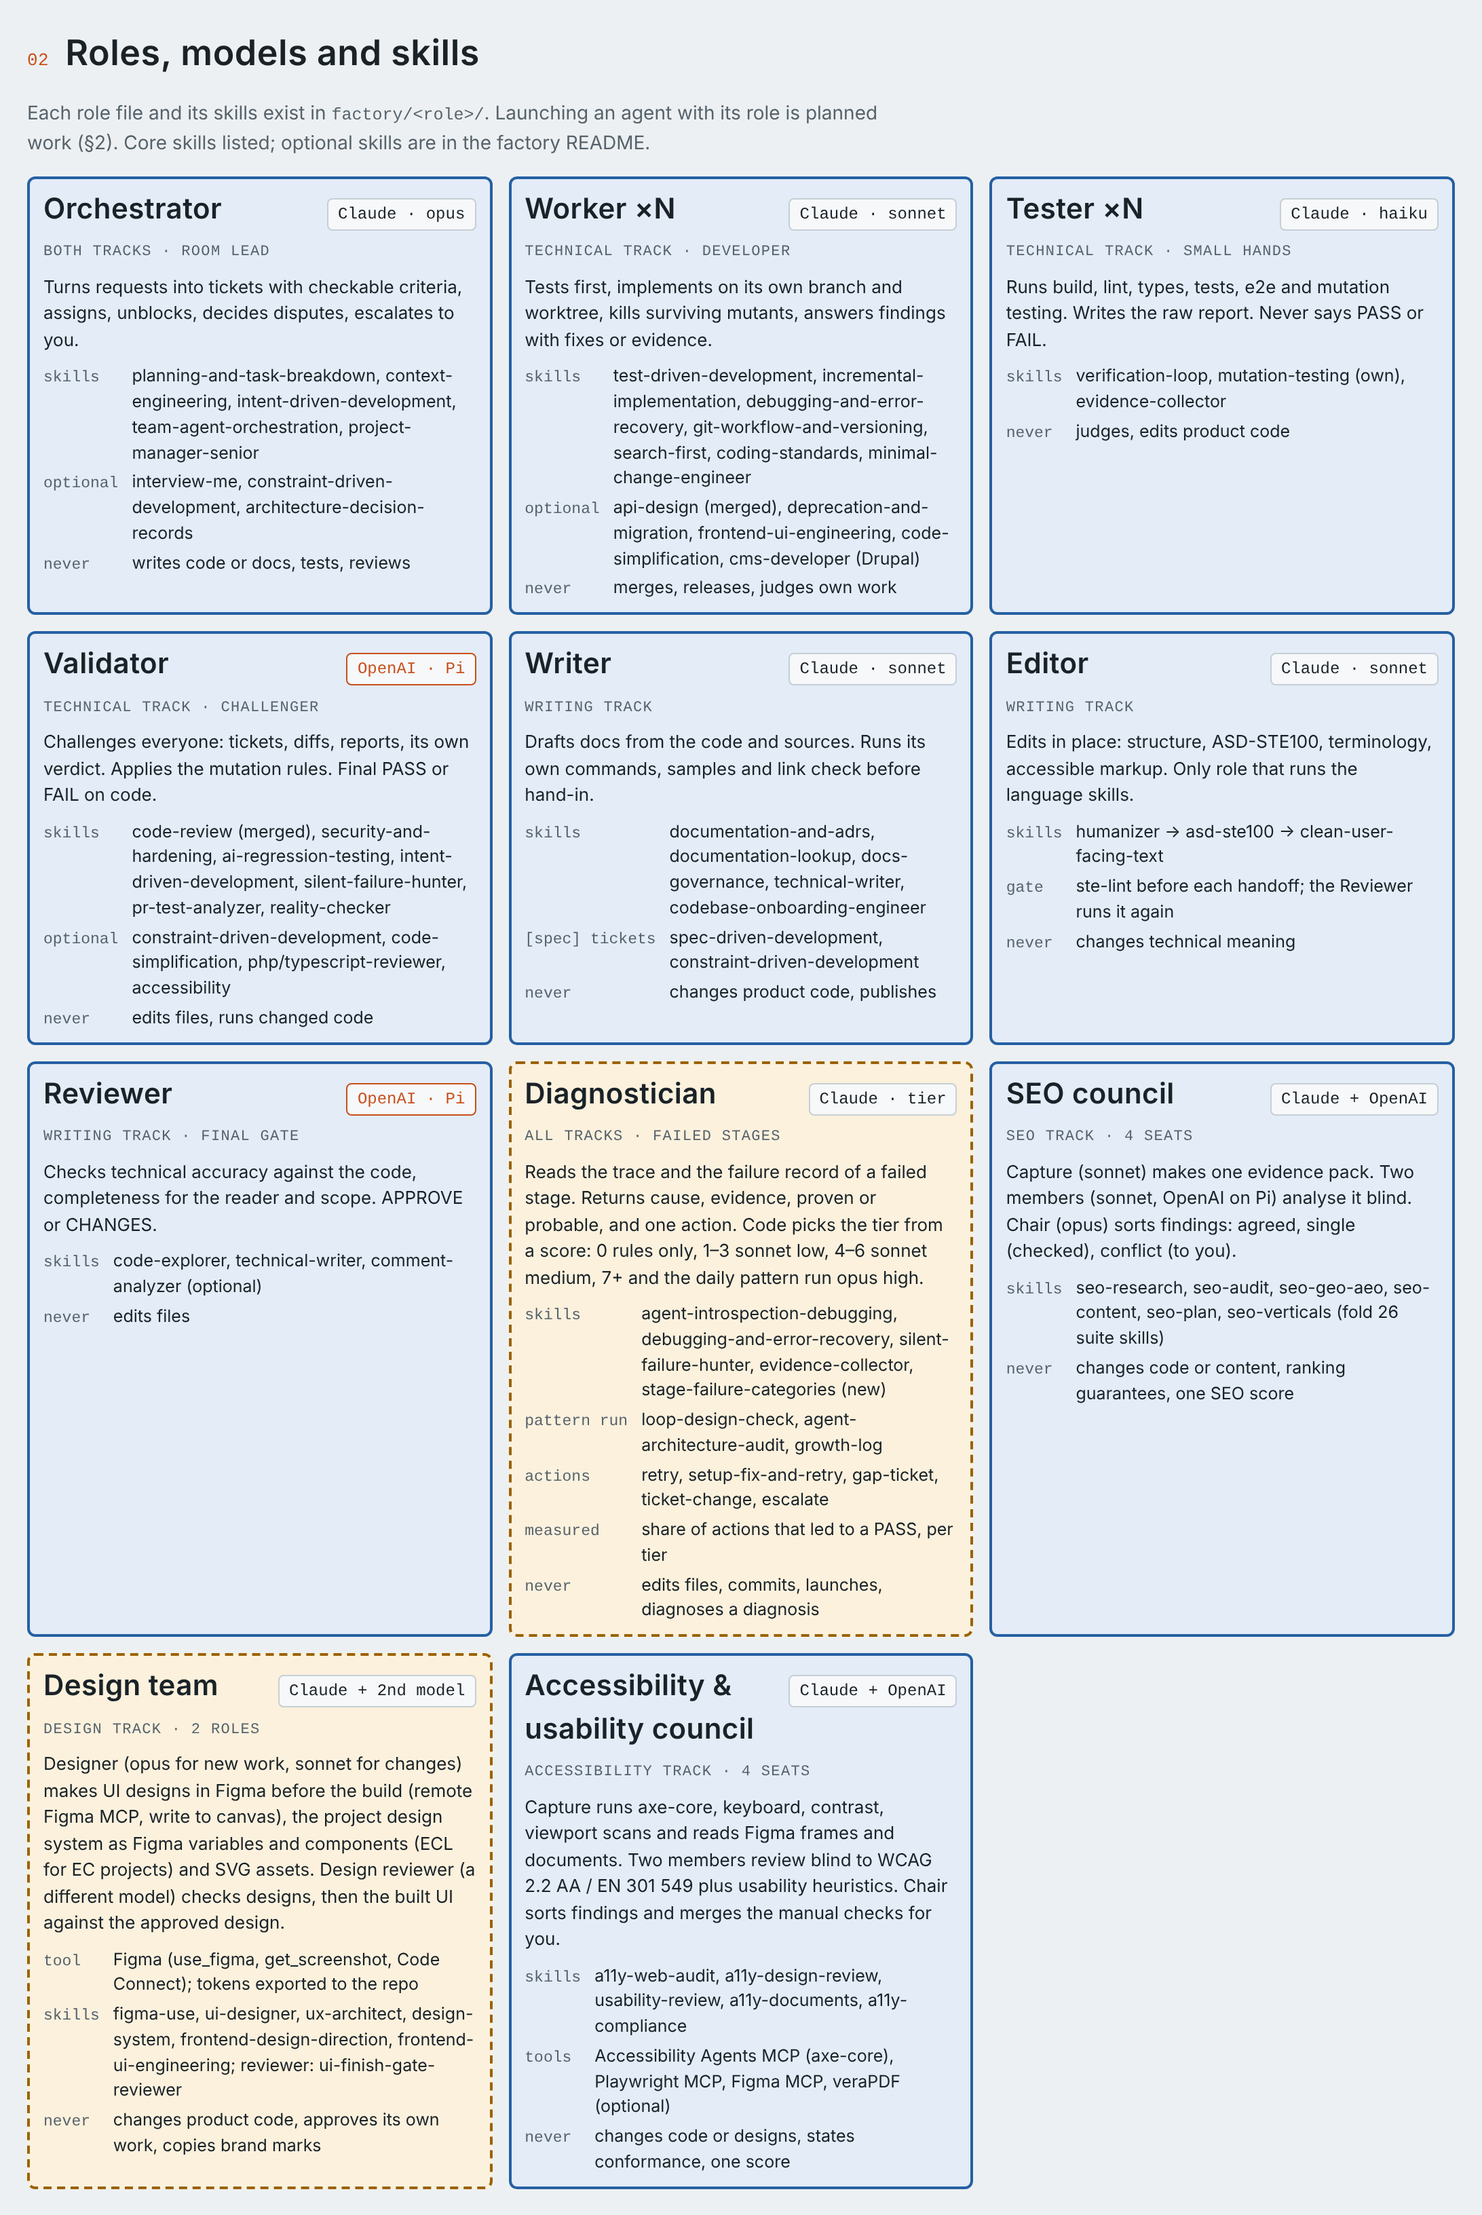
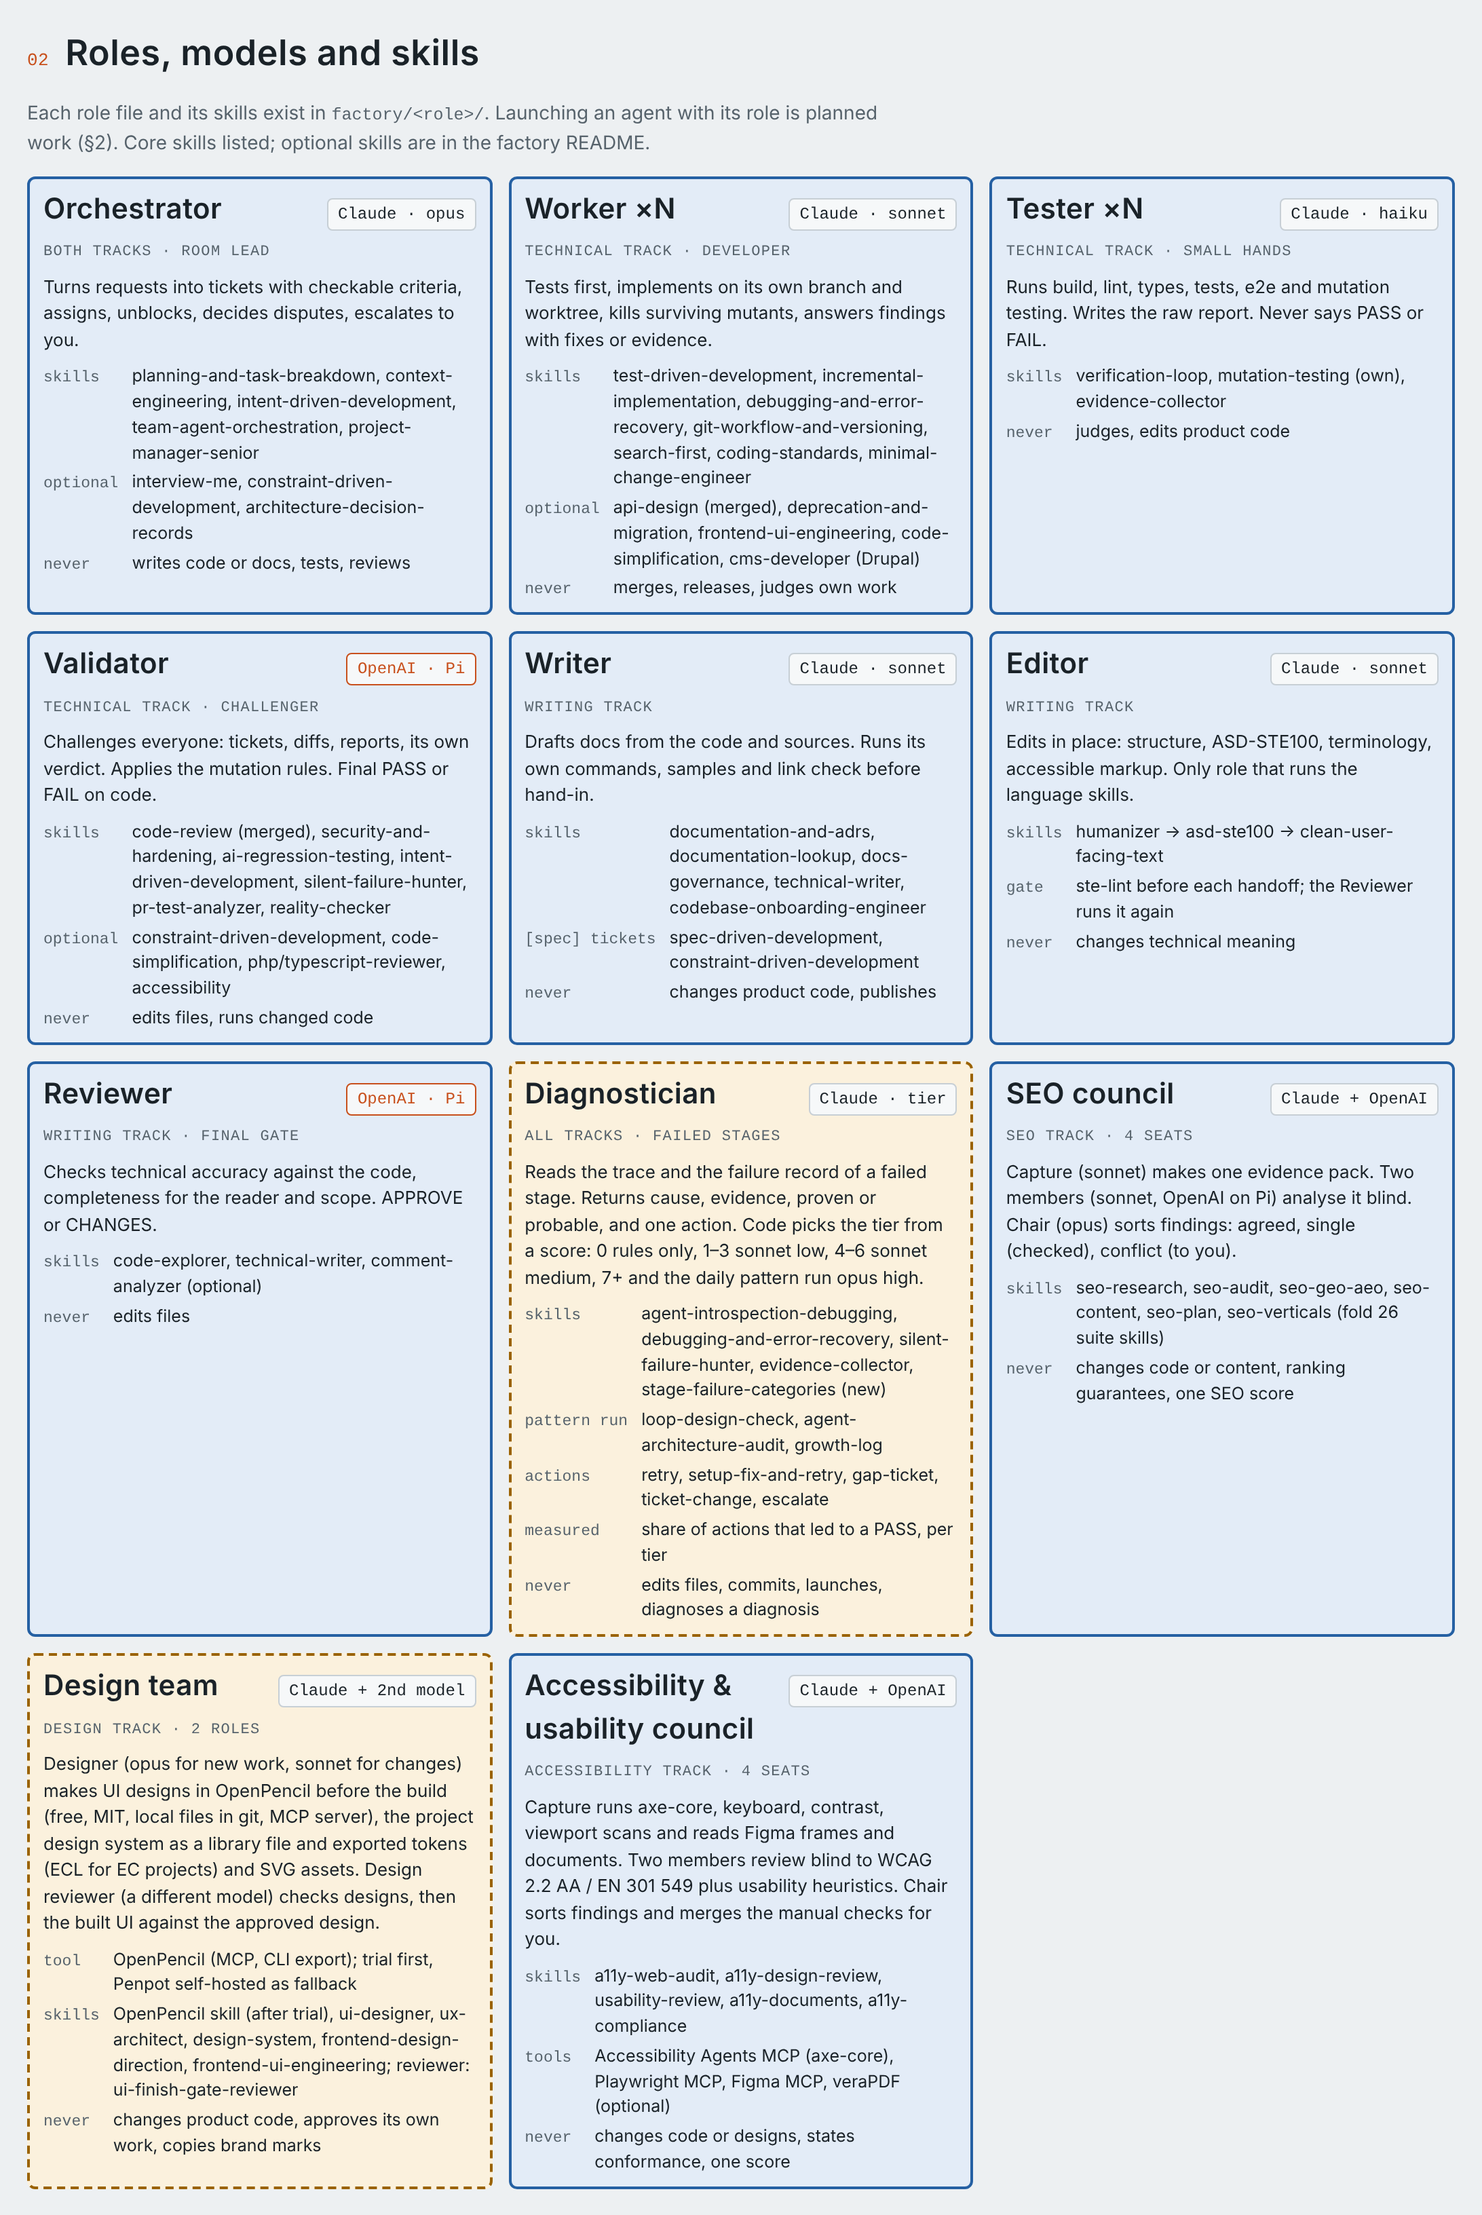
docs: Part 16 design team uses OpenPencil (trial first, Penpot fallback); map

Changed region(s): [[0.0311, 0.7812, 0.3114, 0.9688]]

diff --git a/docs/factory-map.html b/docs/factory-map.html
@@ -331,9 +331,9 @@ footer{color:var(--muted);font-size:12.5px;display:grid;gap:4px}
     <article class="n planned role">
       <div class="head"><h3>Design team</h3><span class="model">Claude + 2nd model</span></div>
       <span class="track">Design track · 2 roles</span>
-      <p class="job">Designer (opus for new work, sonnet for changes) makes UI designs in Figma before the build (remote Figma MCP, write to canvas), the project design system as Figma variables and components (ECL for EC projects) and SVG assets. Design reviewer (a different model) checks designs, then the built UI against the approved design.</p>
-      <dl><dt>tool</dt><dd>Figma (use_figma, get_screenshot, Code Connect); tokens exported to the repo</dd>
-      <dt>skills</dt><dd>figma-use, ui-designer, ux-architect, design-system, frontend-design-direction, frontend-ui-engineering; reviewer: ui-finish-gate-reviewer</dd>
+      <p class="job">Designer (opus for new work, sonnet for changes) makes UI designs in OpenPencil before the build (free, MIT, local files in git, MCP server), the project design system as a library file and exported tokens (ECL for EC projects) and SVG assets. Design reviewer (a different model) checks designs, then the built UI against the approved design.</p>
+      <dl><dt>tool</dt><dd>OpenPencil (MCP, CLI export); trial first, Penpot self-hosted as fallback</dd>
+      <dt>skills</dt><dd>OpenPencil skill (after trial), ui-designer, ux-architect, design-system, frontend-design-direction, frontend-ui-engineering; reviewer: ui-finish-gate-reviewer</dd>
       <dt>never</dt><dd>changes product code, approves its own work, copies brand marks</dd></dl>
     </article>
 
@@ -419,7 +419,7 @@ footer{color:var(--muted);font-size:12.5px;display:grid;gap:4px}
     <h3>Design track</h3>
     <div class="flow">
       <div class="n planned"><span class="t">[design] ticket</span><span class="d">request with a UI change; code tickets wait for it</span></div><span class="arrow">→</span>
-      <div class="n planned"><span class="t">Designer</span><span class="d">screens in Figma on the library, screenshots and tokens to the repo, assets</span></div><span class="arrow">→</span>
+      <div class="n planned"><span class="t">Designer</span><span class="d">screens in OpenPencil on the library, .pen files, screenshots and tokens in the repo</span></div><span class="arrow">→</span>
       <div class="n planned"><span class="t">Design reviewer</span><span class="d">PASS or CHANGES; 2 CHANGES: arbiter</span></div><span class="arrow">→</span>
       <div class="n planned"><span class="t">Plan + design</span><span class="d">one Approve at the start</span><span class="gate">you approve the plan and the design</span></div><span class="arrow">→</span>
       <div class="n planned"><span class="t">Design review of built UI</span><span class="d">after the Tester on UI tickets: layout, states, tokens</span><span class="ref">§16</span></div>
@@ -492,7 +492,7 @@ footer{color:var(--muted);font-size:12.5px;display:grid;gap:4px}
     <div class="n built"><span class="step">4a</span><span class="t">Agent column</span><span class="d">done: built to test Part 4; reload one agent, skill switches</span><span class="ref">§4a</span></div>
     <div class="n planned"><span class="step">6</span><span class="t">Touchpoints, checkpoint, guards, routing</span><span class="d">in planning (human-touchpoints-checkpoint): human only at start and delivery (arbiter, delivery report) with the Orchestrator checkpoint; then plan check, flow report, stop rules; then model × effort; triage, spec stage, review.json</span><span class="ref">§6</span></div>
     <div class="n planned"><span class="step">12</span><span class="t">Hub-first, browser, Linux</span><span class="d">after Part 6: hub serves the UI, terminal layer into the hub, browser access and pairing, Linux</span><span class="ref">§12</span></div>
-    <div class="n planned"><span class="step">16</span><span class="t">Design team</span><span class="d">after Part 12, before 14: design track (Designer, Design reviewer); makes the mockups for the redesign; design system, design review, assets</span><span class="ref">§16</span></div>
+    <div class="n planned"><span class="step">16</span><span class="t">Design team</span><span class="d">after Part 12, before 14: OpenPencil trial, then the design track; makes the mockups for the redesign</span><span class="ref">§16</span></div>
     <div class="n planned"><span class="step">14</span><span class="t">UI redesign</span><span class="d">after Parts 12 and 16, from the design team's mockups: title bar, tab bar, roster view; WCAG 2.2 AA (agent rail done in 4a)</span><span class="ref">§14</span></div>
     <div class="n planned"><span class="step">5</span><span class="t">Delivery and backup</span><span class="d">after Part 14: internal remote, Deliver step, leak gate, hourly backup</span><span class="ref">§5</span></div>
     <div class="n planned"><span class="step">7</span><span class="t">Toolchain</span><span class="d">bundled tools, worktrees, Serena limits</span><span class="ref">§7</span></div>

diff --git a/factory/brief/16-design-team.md b/factory/brief/16-design-team.md
@@ -20,39 +20,48 @@ The factory makes the design of a feature before the Workers build it, keeps a d
 | Designer | Claude, opus for a new design or design system, sonnet for changes | Makes the designs, the design system and the assets. Runs its own screenshot check before hand-in. | Changes product code. Approves its own work. |
 | Design reviewer | A different model from the Designer: OpenAI on Pi when it is set up, else opus in a new session | Checks a design against the request and the design system, and the built UI against the approved design. PASS or CHANGES. | Edits files. |
 
-## Tool: Figma (decision 2026-10-28)
+## Tool: OpenPencil (decision 2026-10-28)
 
-The design team works in Figma. It uses the remote Figma MCP server:
-- **Write:** `use_figma` creates and edits frames, components, variants, variables and auto layout in a Figma file, through the Figma Plugin API. `upload_assets` and `generate_image` add images. The Figma skill `figma-use` makes these calls reliable.
-- **Read:** `get_design_context`, `get_screenshot`, `get_variable_defs` and `get_metadata`. The Design reviewer reads only.
-- **Code link:** Code Connect maps Figma components to code components, so that the Workers build from the real components.
+The design team works in OpenPencil (github.com/open-pencil/open-pencil). The human chose it because it has no licence fee, no account and no cloud, and it works like Sketch: frames, components, auto layout and variables on a vector canvas.
 
-Conditions (Figma documentation, read 2026-10-28; check again before the build):
-- A Figma Professional, Education, Organization or Enterprise plan, and edit access to the files.
-- Write to canvas is in beta. It is free during the beta and becomes a paid, usage-based feature later. Record the cost in the delivery report when Figma starts to charge.
-- Output can need manual cleanup. The Designer works in a draft file or a branch of the file, never in the published library directly.
-- Fonts must be in the Figma account. Components with images or video cannot be imported.
-- The stage sessions need the Figma MCP in their role plugin, with the human's Figma sign-in on the Mac. Agents never see the human's password; the sign-in is the human's step (Part 8, setup).
+Facts (sources read 2026-10-28; check again before the build):
+- MIT licence. A Tauri desktop app (macOS, Linux, Windows) and a browser app (PWA). Written in TypeScript, with a headless SDK.
+- Reads and writes `.pen` and Figma `.fig` files. Exports PNG, JPG, WebP, SVG, HTML and JSX.
+- An MCP server for agents (Claude Code is named) with tools to create shapes, set layouts, use boolean operations and variables.
+- A command-line tool to inspect, query, change and export files.
+- Its maturity is not known: the sources give no version number and no test results.
+
+How it fits Cubilot:
+- The Designer's role plugin registers the OpenPencil MCP server. The Design reviewer uses the read tools and the command-line export only.
+- The design files are local files in the project repository, so they are in git next to the code.
+- The setup screen (Part 8) installs OpenPencil with the other bundled tools, at a pinned version (Part 7, `toolchain.lock`).
+- After Part 12, the browser version of OpenPencil can open as a "Design" tab in Cubilot's browser UI, so that the human sees and approves the mockups in Cubilot.
+
+### First task: the trial
+
+Before the design track is built, one Designer stage makes one Cubilot screen (from the Part 14 brief) in OpenPencil through its MCP server. The trial records:
+- which MCP tools work, which fail, and which are missing;
+- the time and the tokens of the stage;
+- whether the command-line tool exports the screenshots and the tokens without the app open (this decides if design stages can run on the Linux server);
+- the human's judgement of the result.
+
+If the trial fails, the fallback is Penpot, self-hosted (free, MPL licence, an official MCP server; it needs a browser tab that stays open while the agent works). Figma and Sketch stay possible for a client project that already uses them and pays for them. The tool is a project setting; the design system in the repository does not depend on it.
 
 ## Where the work lives
 
-In Figma, for each project:
-- **Library:** the design system as Figma variables (colour, type, spacing, radius, shadow, with modes for the themes) and published components. For a European Commission project, start from the ECL Figma kit when one is available, and do not make a second system.
-- **Design file:** one page for each request, with the screens and their states. The Designer works on a draft or a branch; the human approves the page link.
-
 In the project repository:
-- `design/system/`: `design-tokens.json` and `tokens.css`, exported from the Figma variables, so that code and Figma use the same values. A check compares them.
-- `design/<request-id>/`: `brief.md` (the Figma page link, the screens and states) and `screenshots/` (from `get_screenshot`), so that the review and the delivery report work without Figma.
+- `design/system/`: the library file (`library.pen`) with the variables (colour, type, spacing, radius, shadow, with modes for the themes) and the components, plus `design-tokens.json` and `tokens.css` exported from it, so that code and design use the same values. A check compares them. For a European Commission project, the system is ECL: start from the ECL tokens and components, and do not make a second system. For Cubilot itself, the system is `ui/styles/tokens.css` (the three themes).
+- `design/<request-id>/`: the design file (`<request-id>.pen`) with one page for each screen and its states, `brief.md`, and `screenshots/` exported by the command-line tool, so that the review and the delivery report work without the app.
 - `design/assets/`: SVG files, each with a line in `design/assets/SOURCES.md`.
 
 Inputs:
-- Existing Figma files of the project.
+- Existing design files of the project (`.pen`, or `.fig` from Figma, which OpenPencil opens).
 - The existing UI, through screenshots that Playwright makes.
 
 ## Flow
 
 1. The Orchestrator triages a request (Part 6, item 1). A request with a UI change gets a `[design]` ticket first.
-2. Designer: makes the design or the system change in Figma (draft or branch), exports the screenshots and, for a system change, the tokens.
+2. Designer: makes the design or the system change in OpenPencil, exports the screenshots and, for a system change, the tokens. It commits the files on the ticket branch, as a Worker does.
 3. Design reviewer: PASS or CHANGES. CHANGES goes back to the Designer. After two CHANGES, the arbiter decides (Part 6, item 11).
 4. The plan of the request goes to the human with the design screenshots. One Approve covers both.
 5. The Workers build. Each UI ticket names the screens of the approved design that it implements.
@@ -65,7 +74,7 @@ Sources as for the other roles (`factory/README.md`). Copy each skill with its s
 
 | Role | Core | Optional |
 |---|---|---|
-| Designer | `figma-use` (Figma), `agency-design-ui-designer`, `agency-design-ux-architect`, `design-system` (ECC), `frontend-design-direction` (ECC), `frontend-ui-engineering` (Osmani) | `agency-design-brand-guardian`, `agency-design-visual-storyteller`, `agency-design-inclusive-visuals-specialist` |
+| Designer | an OpenPencil skill (write it after the trial, from the tools that work), `agency-design-ui-designer`, `agency-design-ux-architect`, `design-system` (ECC), `frontend-design-direction` (ECC), `frontend-ui-engineering` (Osmani) | `agency-design-brand-guardian`, `agency-design-visual-storyteller`, `agency-design-inclusive-visuals-specialist` |
 | Design reviewer | `agency-design-ui-finish-gate-reviewer`, `design-system` (ECC, audit mode) | `agency-design-ux-researcher`, `agency-design-persona-walkthrough` |
 
 ## Dependencies
@@ -82,13 +91,14 @@ Sources as for the other roles (`factory/README.md`). Copy each skill with its s
 3. A built UI that uses a colour value outside the design system gets a blocking design-review finding.
 4. On a European Commission project, the Designer uses ECL tokens and components, and creates no new token set.
 5. Each asset in `design/assets/` has a line in `SOURCES.md`.
-6. The tokens exported from the Figma variables match `design/system/tokens.css` (a check that fails on a difference).
-7. A design stage without the Figma sign-in stops with a clear message and a "Needs you" line; it does not fall back to HTML silently.
+6. The tokens exported from `design/system/library.pen` match `design/system/tokens.css` (a check that fails on a difference).
+7. A design stage that cannot reach the OpenPencil MCP server stops with a clear message and a "Needs you" line; it does not fall back to HTML silently.
 
 ## Open questions
 
-1. Image generation: Figma's `generate_image` can make raster images. Is it in scope, and at what cost after the beta? Today: SVG only.
-3. Which Figma plan and team does the factory use, and who owns the files (the human, or each client)?
+1. Image generation (raster illustrations): not in scope. SVG only.
+3. Can design stages run on the Linux server without a screen? The trial answers this (command-line export without the app).
+4. Does a fork of OpenPencil become the base of the shelved Sketch clone (Ardoise)? A separate decision, only after a good trial.
 2. Does the design review run on every UI ticket, or only when the ticket names a screen of an approved design?
 
 ---
